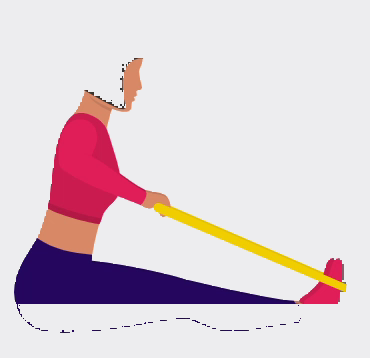
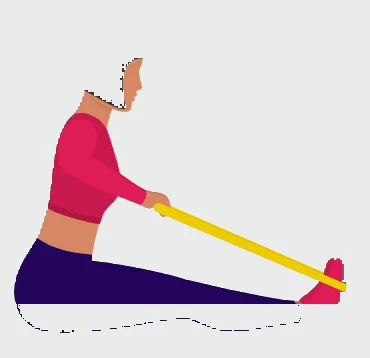
fix(workout): optimize video fitting, remove letterbox padding, and match exercise canvas background

Changed region(s): [[0.4162, 0.5531, 0.9514, 0.8603], [0.1189, 0.4916, 0.1486, 0.5223]]

diff --git a/css/brand.css b/css/brand.css
@@ -1363,8 +1363,8 @@ body[data-view="assessment"] .bone-ai-fab, body[data-view="auth"] .bone-ai-fab {
 
 .ex-card { background: #fff; border: 1.5px solid var(--border-subtle); border-radius: 24px; overflow: hidden; box-shadow: var(--shadow-sm); display: flex; flex-direction: column; transition: border-color var(--transition-fast); }
 .ex-card.completed { border-color: #F8C8D5; }
-.ex-media { position: relative; height: 230px; background: #EDEDEF; cursor: pointer; display: flex; align-items: center; justify-content: center; }
-.ex-media video { width: 100%; height: 100%; object-fit: contain; display: block; }
+.ex-media { position: relative; height: 240px; background: #EAECEC; cursor: pointer; display: flex; align-items: center; justify-content: center; overflow: hidden; }
+.ex-media video { width: 100%; height: 100%; object-fit: contain; object-position: center; display: block; background: #EAECEC; border: none !important; outline: none !important; }
 .ex-play { position: absolute; right: 12px; bottom: 12px; pointer-events: none; }
 .ex-play span { width: 48px; height: 48px; border-radius: 50%; background: rgba(255, 255, 255, 0.92); color: var(--build); display: grid; place-items: center; font-size: 1.2rem; box-shadow: var(--shadow-float); animation: pulseRing 2s infinite; }
 .ex-dur { position: absolute; top: 10px; left: 10px; background: rgba(255, 255, 255, 0.92); color: var(--text-primary); padding: 4px 10px; border-radius: var(--radius-full); font-size: 0.74rem; font-weight: 800; display: inline-flex; gap: 5px; align-items: center; }
@@ -1466,8 +1466,8 @@ body[data-view="assessment"] .bone-ai-fab, body[data-view="auth"] .bone-ai-fab {
 .timer-close { position: absolute; top: 14px; right: 14px; }
 .timer-title { font-size: 1.35rem; margin: 8px 0 2px; }
 .timer-sub { font-size: 0.8rem; color: var(--text-muted); margin: 0 0 10px; }
-.modal-workout-video-wrap { height: 260px; max-height: 38vh; background: #EDEDEF; border-radius: 20px; overflow: hidden; display: flex; align-items: center; justify-content: center; margin-bottom: 12px; }
-.modal-workout-video-wrap video, .modal-workout-video-wrap img { width: 100%; height: 100%; object-fit: contain; }
+.modal-workout-video-wrap { height: 280px; max-height: 42vh; background: #EAECEC; border-radius: 20px; overflow: hidden; display: flex; align-items: center; justify-content: center; margin-bottom: 12px; }
+.modal-workout-video-wrap video, .modal-workout-video-wrap img { width: 100%; height: 100%; object-fit: contain; object-position: center; background: #EAECEC; border: none !important; outline: none !important; }
 .timer-ring { margin: 4px auto 12px; width: 132px; height: 132px; }
 .timer-count { position: absolute; inset: 0; display: grid; place-items: center; font-family: var(--font-heading); font-size: 2rem; font-weight: 900; font-variant-numeric: tabular-nums; color: var(--text-primary); }
 .timer-ring .ring-fill { transition: stroke-dashoffset 0.95s linear; }
@@ -2016,10 +2016,10 @@ body { overflow-x: clip; }
 .wk-row:hover { border-color: var(--build); }
 .wk-row:active { transform: scale(0.99); }
 .wk-row.done { background: linear-gradient(120deg, #F1FBF6, #fff 60%); border-color: #BFE7D2; }
-.wk-thumb { position: relative; flex-shrink: 0; width: 76px; height: 76px; border-radius: 16px; overflow: hidden; background: #EDEDEF; display: grid; place-items: center; }
-.wk-thumb img { width: 100%; height: 100%; object-fit: contain; display: block; }
+.wk-thumb { position: relative; flex-shrink: 0; width: 76px; height: 76px; border-radius: 16px; overflow: hidden; background: #EAECEC; display: grid; place-items: center; }
+.wk-thumb img { width: 100%; height: 100%; object-fit: contain; object-position: center; display: block; background: #EAECEC; }
 /* Absolute so the portrait clip can't size the grid cell (percent heights don't resolve there). */
-.wk-thumb video { position: absolute; inset: 0; width: 100%; height: 100%; object-fit: contain; display: block; }
+.wk-thumb video { position: absolute; inset: 0; width: 100%; height: 100%; object-fit: contain; object-position: center; display: block; background: #EAECEC; border: none !important; outline: none !important; }
 .wk-thumb.illus { background: var(--grad-brand-soft); }
 .wk-thumb.illus img { width: 48px; height: 48px; object-fit: contain; }
 .wk-play { position: absolute; right: 5px; bottom: 5px; width: 24px; height: 24px; border-radius: 50%; background: rgba(255, 255, 255, 0.95); color: var(--build); font-size: 0.6rem; display: grid; place-items: center; box-shadow: var(--shadow-sm); }
@@ -2042,8 +2042,8 @@ body { overflow-x: clip; }
 @media (min-width: 640px) { .exd-card { border-radius: 28px; } }
 @keyframes sheetUp { from { transform: translateY(40px); opacity: 0; } to { transform: none; opacity: 1; } }
 #exDetailBody { flex: 1; overflow-y: auto; overscroll-behavior: contain; }
-.exd-media { position: relative; height: min(42vh, 340px); background: #EDEDEF; display: grid; place-items: center; }
-.exd-media video { width: 100%; height: 100%; object-fit: contain; }
+.exd-media { position: relative; height: min(45vh, 380px); background: #EAECEC; display: grid; place-items: center; overflow: hidden; }
+.exd-media video { width: 100%; height: 100%; object-fit: contain; object-position: center; background: #EAECEC; border: none !important; outline: none !important; }
 .exd-illus { display: flex; flex-direction: column; align-items: center; gap: 10px; color: var(--text-secondary); font-weight: 700; font-size: 0.92rem; }
 .exd-media:has(.exd-illus) { background: var(--grad-brand-soft); }
 .exd-close { position: absolute; top: 12px; right: 12px; width: 44px; height: 44px; border-radius: 50%; border: none; background: rgba(255, 255, 255, 0.95); color: var(--text-primary); font-size: 1.1rem; cursor: pointer; box-shadow: var(--shadow-md); }
@@ -2081,7 +2081,7 @@ body { overflow-x: clip; }
 .exd-footer .cta-btn { flex: 1; min-height: 52px; font-size: 1.1rem; }
 
 /* ---------- Full-screen player ---------- */
-.player { position: fixed; inset: 0; z-index: 10080; background: #EDEDEF; display: flex; flex-direction: column; overflow: hidden; }
+.player { position: fixed; inset: 0; z-index: 10080; background: #EAECEC; display: flex; flex-direction: column; overflow: hidden; }
 .player[hidden] { display: none !important; }
 body.player-open { overflow: hidden; }
 body.player-open .pillar-bottom-nav, body.player-open .bone-ai-fab { display: none; }
@@ -2092,9 +2092,9 @@ body.player-open .pillar-bottom-nav, body.player-open .bone-ai-fab { display: no
   padding: calc(10px + env(safe-area-inset-top, 0px)) 16px 10px;
   position: relative;
   z-index: 10;
-  background: #EDEDEF;
+  background: #EAECEC;
   flex-shrink: 0;
-  border-bottom: 1px solid rgba(0, 0, 0, 0.06);
+  border-bottom: 1px solid rgba(0, 0, 0, 0.04);
 }
 .pl-icon { width: 42px; height: 42px; flex-shrink: 0; border-radius: 50%; border: none; background: #FFFFFF; box-shadow: 0 2px 8px rgba(0, 0, 0, 0.06); color: var(--text-primary); font-size: 1.05rem; cursor: pointer; display: grid; place-items: center; transition: all var(--transition-fast); }
 .pl-icon:hover { background: #FFFFFF; transform: scale(1.05); }
@@ -2183,24 +2183,27 @@ body.player-open .pillar-bottom-nav, body.player-open .bone-ai-fab { display: no
   position: relative;
   flex: 1;
   min-height: 0;
-  background: #EDEDEF;
+  background: #EAECEC;
   display: flex;
   align-items: center;
   justify-content: center;
-  padding: 24px 20px 12px 20px;
+  padding: 0;
+  margin: 0;
   box-sizing: border-box;
   overflow: hidden;
+  width: 100%;
 }
 .pl-media {
   position: relative;
   width: 100%;
   height: 100%;
-  max-width: 420px;
-  max-height: calc(100% - 12px);
+  max-width: 100%;
+  max-height: 100%;
   display: flex;
   align-items: center;
   justify-content: center;
   overflow: hidden;
+  background: #EAECEC;
 }
 .pl-media video {
   width: 100%;
@@ -2208,7 +2211,12 @@ body.player-open .pillar-bottom-nav, body.player-open .bone-ai-fab { display: no
   max-width: 100%;
   max-height: 100%;
   object-fit: contain;
+  object-position: center;
   display: block;
+  background: #EAECEC;
+  border: none !important;
+  outline: none !important;
+  box-shadow: none !important;
 }
 .pl-illus { width: 100%; height: 100%; overflow-y: auto; display: flex; flex-direction: column; align-items: center; gap: 12px; padding: 18px 22px; background: var(--grad-brand-soft); border-radius: 18px; }
 .pl-illus ol { margin: 0; padding-left: 22px; max-width: 460px; font-size: 1.08rem; line-height: 1.55; color: var(--text-primary); }
@@ -2219,7 +2227,7 @@ body.player-open .pillar-bottom-nav, body.player-open .bone-ai-fab { display: no
 .pl-ready b { font-family: var(--font-heading); font-size: clamp(3rem, 16vw, 4.5rem); line-height: 1; font-weight: 900; }
 .pl-ready-name { font-size: 1.05rem; font-weight: 700; opacity: 0.95; margin-bottom: 12px; }
 .pl-ready-btn { min-height: 46px; padding: 0 28px; border: none; border-radius: var(--radius-full); background: #fff; color: var(--build); font-family: var(--font-heading); font-weight: 800; font-size: 1rem; cursor: pointer; }
-.pl-info { padding: 10px 16px calc(12px + env(safe-area-inset-bottom, 0px)); text-align: center; display: flex; flex-direction: column; align-items: center; gap: 1px; background: #fff; border-radius: 24px 24px 0 0; box-shadow: 0 -4px 20px rgba(0, 0, 0, 0.05); position: relative; z-index: 5; }
+.pl-info { padding: 12px 18px calc(14px + env(safe-area-inset-bottom, 0px)); text-align: center; display: flex; flex-direction: column; align-items: center; gap: 1px; background: #fff; border-radius: 28px 28px 0 0; box-shadow: 0 -8px 28px rgba(0, 0, 0, 0.06); position: relative; z-index: 5; flex-shrink: 0; }
 .pl-count { font-size: 0.78rem; font-weight: 800; color: var(--text-muted); letter-spacing: 0.04em; }
 .pl-name { font-size: 1.2rem; font-weight: 800; margin: 1px 0 0; line-height: 1.2; }
 .pl-reps { font-size: 0.85rem; color: var(--text-secondary); font-weight: 600; }
@@ -2257,8 +2265,8 @@ body.player-open .pillar-bottom-nav, body.player-open .bone-ai-fab { display: no
 .pl-rest-next-head span { display: block; font-size: 0.75rem; font-weight: 800; letter-spacing: 0.08em; text-transform: uppercase; color: var(--build); }
 .pl-rest-next-head b { font-family: var(--font-heading); font-size: 1.15rem; }
 .pl-rest-time { font-family: var(--font-heading); font-weight: 800; font-size: 1rem; color: var(--text-muted); }
-.pl-rest-preview { flex: 1; min-height: 0; display: grid; place-items: center; margin-top: 8px; background: #EDEDEF; border-radius: 18px 18px 0 0; overflow: hidden; position: relative; }
-.pl-rest-preview img { max-width: 100%; max-height: 100%; object-fit: contain; }
+.pl-rest-preview { flex: 1; min-height: 0; display: grid; place-items: center; margin-top: 8px; background: #EAECEC; border-radius: 18px 18px 0 0; overflow: hidden; position: relative; }
+.pl-rest-preview img { max-width: 100%; max-height: 100%; object-fit: contain; object-position: center; }
 .pl-rest-preview .i3d { width: 100px; height: 100px; }
 
 .pl-done { position: absolute; inset: 0; z-index: 30; background: radial-gradient(700px 400px at 50% 0%, #FDECF1, #fff 70%); display: flex; flex-direction: column; align-items: center; justify-content: center; text-align: center; padding: 24px 22px calc(24px + env(safe-area-inset-bottom, 0px)); gap: 8px; overflow-y: auto; }
@@ -2291,9 +2299,9 @@ body.player-open .pillar-bottom-nav, body.player-open .bone-ai-fab { display: no
 
 /* Media boxes: pin video/images inside a clipped box so tall portrait clips can't overflow. */
 .exd-media, .pl-rest-preview { overflow: hidden; }
-.exd-media > video { position: absolute; inset: 0; width: 100%; height: 100%; object-fit: contain; }
+.exd-media > video { position: absolute; inset: 0; width: 100%; height: 100%; object-fit: contain; object-position: center; background: #EAECEC; }
 .pl-rest-preview { position: relative; }
-.pl-rest-preview > img:not(.i3d) { position: absolute; inset: 0; width: 100%; height: 100%; max-width: none; max-height: none; object-fit: contain; }
+.pl-rest-preview > img:not(.i3d) { position: absolute; inset: 0; width: 100%; height: 100%; max-width: none; max-height: none; object-fit: contain; object-position: center; background: #EAECEC; }
 
 
 /* ==========================================================================

diff --git a/index.html b/index.html
@@ -38,8 +38,8 @@
   <link rel="stylesheet" href="https://cdnjs.cloudflare.com/ajax/libs/font-awesome/6.5.1/css/all.min.css" integrity="sha384-t1nt8BQoYMLFN5p42tRAtuAAFQaCQODekUVeKKZrEnEyp4H2R0RHFz0KWpmj7i8g" crossorigin="anonymous" referrerpolicy="no-referrer">
 
   <link rel="preload" as="image" href="assets/images/bonesip_logo_720.webp">
-  <link rel="stylesheet" href="css/style.css?v=3.8.1">
-  <link rel="stylesheet" href="css/brand.css?v=3.8.1">
+  <link rel="stylesheet" href="css/style.css?v=3.8.2">
+  <link rel="stylesheet" href="css/brand.css?v=3.8.2">
 </head>
 <body class="portal-locked">
   <a class="skip-link" href="#mainContent">Skip to content</a>
@@ -951,8 +951,8 @@
   <noscript><div class="noscript">BONE SIP needs JavaScript to run.</div></noscript>
 
   <script src="js/vendor/confetti.browser.min.js" defer></script>
-  <script src="js/config.js?v=3.8.1"></script>
-  <script src="js/data.js?v=3.8.1"></script>
-  <script src="js/app.js?v=3.8.1"></script>
+  <script src="js/config.js?v=3.8.2"></script>
+  <script src="js/data.js?v=3.8.2"></script>
+  <script src="js/app.js?v=3.8.2"></script>
 </body>
 </html>

diff --git a/sw.js b/sw.js
@@ -1,6 +1,6 @@
 // BONE SIP service worker — offline app shell + runtime caching.
 // Bump CACHE_VERSION whenever you deploy changed files (or let your build step do it).
-const CACHE_VERSION = 'bonesip-v3.8.1';
+const CACHE_VERSION = 'bonesip-v3.8.2';
 const SHELL_CACHE = `${CACHE_VERSION}-shell`;
 const RUNTIME_CACHE = `${CACHE_VERSION}-runtime`;
 
@@ -8,12 +8,12 @@ const APP_SHELL = [
   "./",
   "index.html",
   "manifest.webmanifest",
-  "css/style.css?v=3.8.1",
-  "css/brand.css?v=3.8.1",
-  "js/config.js?v=3.8.1",
-  "js/data.js?v=3.8.1",
-  "js/i18n.js?v=3.8.1",
-  "js/app.js?v=3.8.1",
+  "css/style.css?v=3.8.2",
+  "css/brand.css?v=3.8.2",
+  "js/config.js?v=3.8.2",
+  "js/data.js?v=3.8.2",
+  "js/i18n.js?v=3.8.2",
+  "js/app.js?v=3.8.2",
   "js/vendor/confetti.browser.min.js",
   "assets/images/bonesip_logo_720.webp",
   "assets/images/ojas-avatar.svg",

diff --git a/tests/assistant.test.js b/tests/assistant.test.js
@@ -37,7 +37,7 @@ const nextIp = () => `10.0.0.${++ipCounter}`;
   assert(P.includes('112') && /not a doctor/i.test(P), 'Prompt includes safety rules (not a doctor, emergency number)');
   assert(Object.keys(ACTIONS).every(id => P.includes(id)), 'Prompt lists every action id');
   assert(Object.keys(LANGUAGES).length === 13 && ['hi', 'bn', 'mr', 'te', 'ta', 'gu', 'kn', 'ml', 'pa', 'or', 'as'].every(l => LANGUAGES[l]), 'Supports auto + English + 11 Indian languages');
-  assert(P.length < 16000, 'Knowledge prompt stays compact', `(${P.length} chars)`);
+  assert(P.length < 18000, 'Knowledge prompt stays compact', `(${P.length} chars)`);
 
   console.log('\n--- Snapshot & validation ---');
   const snap = _internal.buildSnapshot({ firstName: 'Asha\u0000<script>', age: 999, diet: 'veg', region: 'south', mealsPending: Array(20).fill('x') }, 'zz');
